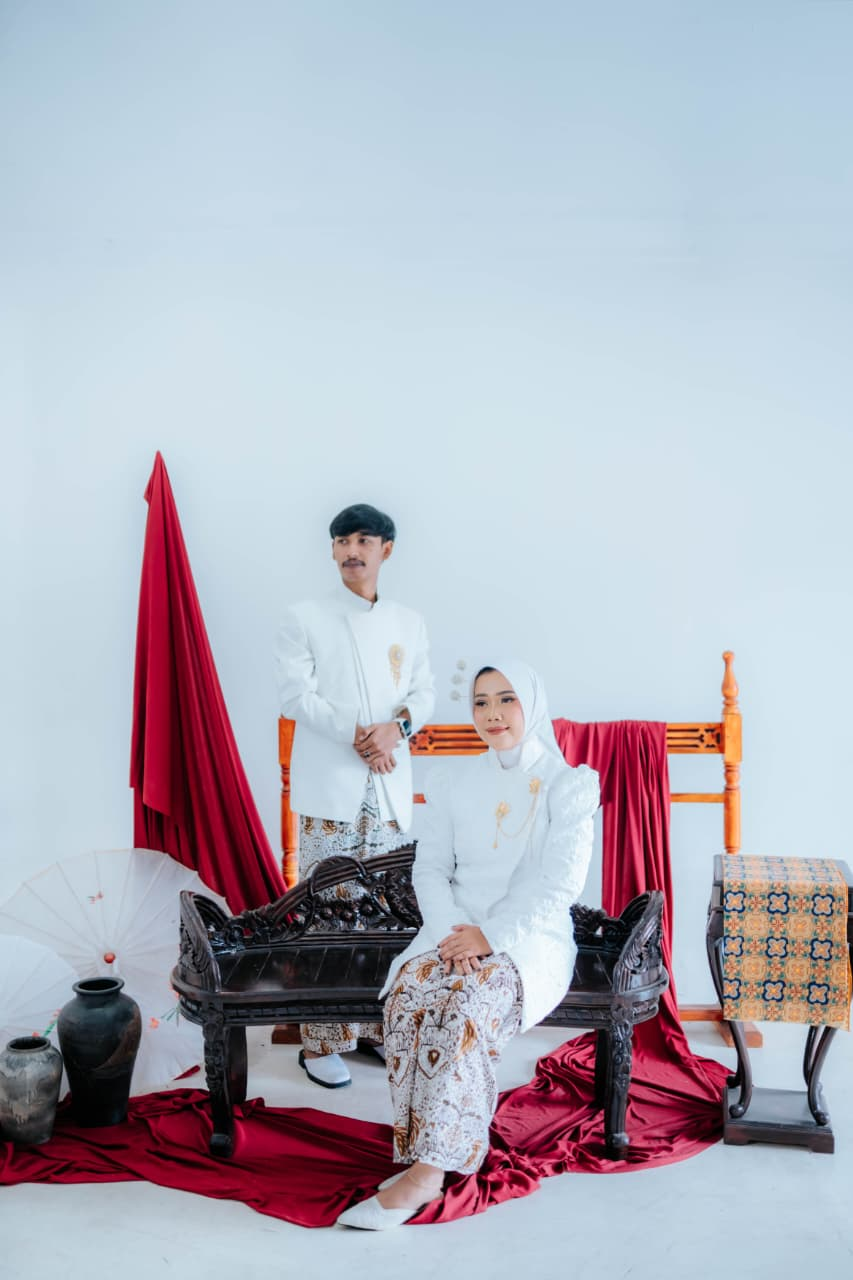
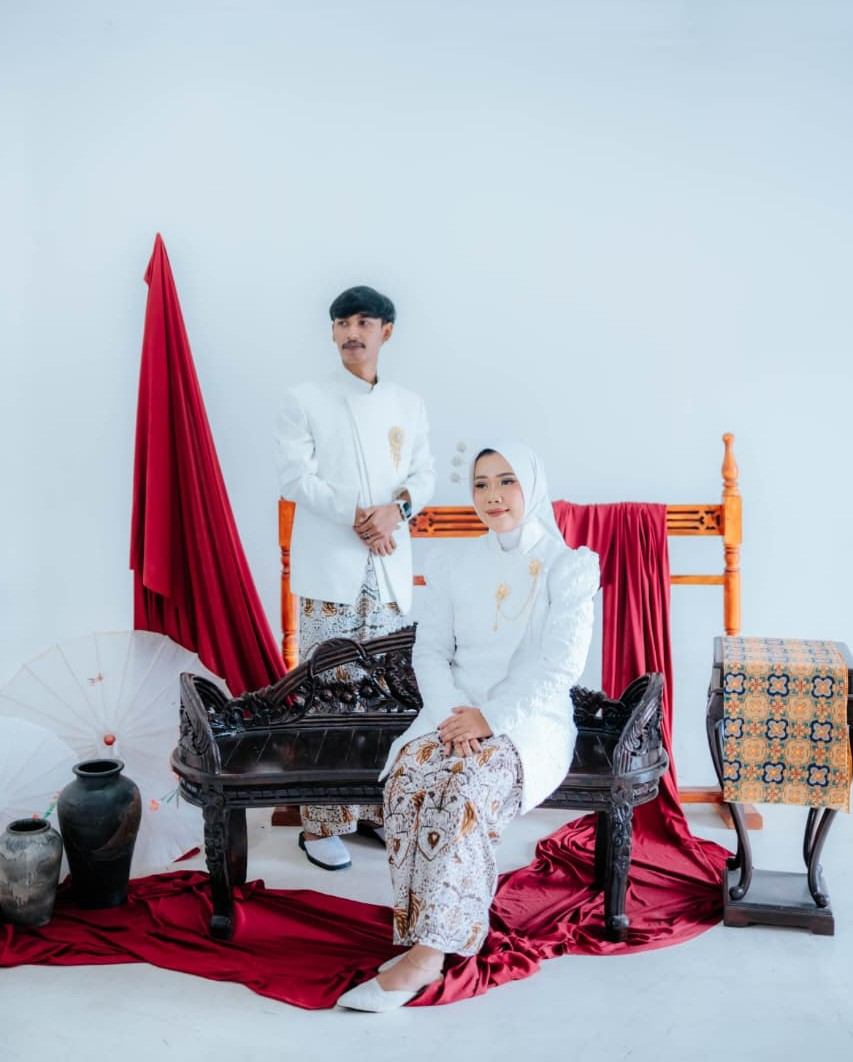
fix image paths

diff --git a/index.html b/index.html
@@ -11,7 +11,7 @@
     <link rel="preconnect" href="https://fonts.googleapis.com" />
     <link rel="preconnect" href="https://fonts.gstatic.com" crossorigin />
     <link
-      href="https://fonts.googleapis.com/css2?family=Cinzel:wght@400;600;700&family=IM+Fell+English:ital@0;1&family=Great+Vibes&family=Noto+Serif:ital,wght@0,300;0,400;1,300&display=swap"
+      href="https://fonts.googleapis.com/css2?family=Cinzel:wght@400;600;700&family=IM+Fell+English:ital@0;1&family=Great+Vibes&family=Noto+Serif:ital,wght@0,300;0,400;1,300&family=Libre+Baskerville:ital,wght@0,400;0,700;1,400&display=swap"
       rel="stylesheet"
     />
 
@@ -340,7 +340,7 @@
         padding: 9px 22px;
         border-radius: 999px;
         border: 1px solid rgba(245, 230, 200, 0.4);
-        background: rgba(253, 246, 236, 0.1);
+        background: rgba(255, 255, 255, 0.1);
         backdrop-filter: blur(10px);
         color: var(--cream-mid);
         font-size: 11px;
@@ -357,7 +357,7 @@
         width: 68px;
         height: 68px;
         border-radius: 16px;
-        background: rgba(253, 246, 236, 0.12);
+        background: rgba(253, 225, 190, 0.12);
         border: 1px solid rgba(245, 230, 200, 0.25);
         backdrop-filter: blur(10px);
         display: flex;
@@ -542,7 +542,7 @@
         inset: 0;
         background: linear-gradient(
           to bottom,
-          rgba(253, 246, 236, 0.15) 0%,
+          rgba(156, 34, 34, 0.15) 0%,
           rgba(245, 230, 200, 0.55) 35%,
           rgba(253, 240, 225, 0.82) 60%,
           rgba(253, 246, 236, 0.95) 100%
@@ -561,7 +561,7 @@
         border: 1px solid rgba(139, 26, 38, 0.35);
         padding: 2.5rem 1.8rem;
         background: rgba(253, 246, 236, 0.82);
-        backdrop-filter: blur(4px);
+        
       }
       .ayat-frame::before,
       .ayat-frame::after,
@@ -617,7 +617,7 @@
         margin-bottom: 1rem;
       }
       .ayat-text {
-        font-family: "IM Fell English", serif;
+        font-family: "Lora", serif;
         font-style: italic;
         font-size: 0.88rem;
         line-height: 2;
@@ -1281,9 +1281,9 @@
         text-align: right;
       }
       .hadiah-quote-text {
-        font-family: "IM Fell English", serif;
+        font-family: "Lora", serif;
         font-style: italic;
-        font-size: 0.9rem;
+        font-size: 0.8rem;
         line-height: 2;
         color: rgba(253, 246, 236, 0.88);
         letter-spacing: 0.02em;
@@ -2209,13 +2209,13 @@
             <img src="img/landscape.png" alt="Foto 1" loading="lazy" />
           </div>
           <div class="g-item" onclick="openLb('img/black prewed.jpeg')">
-            <img src="img/black prewed.jpeg" alt="Foto 2" loading="lazy" />
+            <img src="img/dema2.png" alt="Foto 2" loading="lazy" />
           </div>
           <div class="g-item" onclick="openLb('img/candid.jpeg')">
             <img src="img/candid.jpeg" alt="Foto 3" loading="lazy" />
           </div>
           <div class="g-item" onclick="openLb('img/dema.png')">
-            <img src="img/dema.png" alt="Foto 4" loading="lazy" />
+            <img src="img/formal.jpeg" alt="Foto 4" loading="lazy" />
           </div>
           <div class="g-item" onclick="openLb('img/milah.png')">
             <img src="img/milah.png" alt="Foto 5" loading="lazy" />